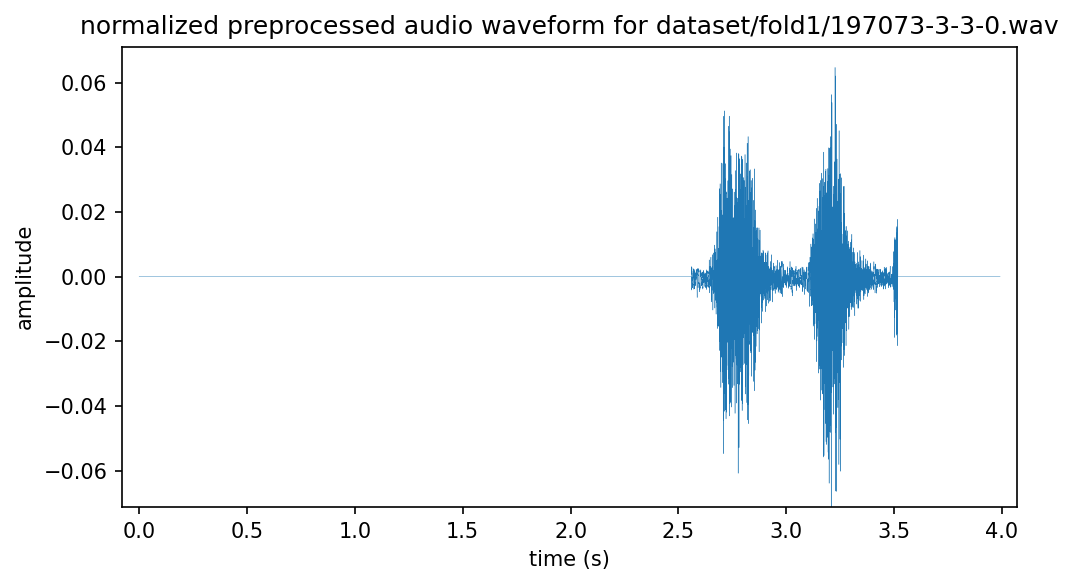
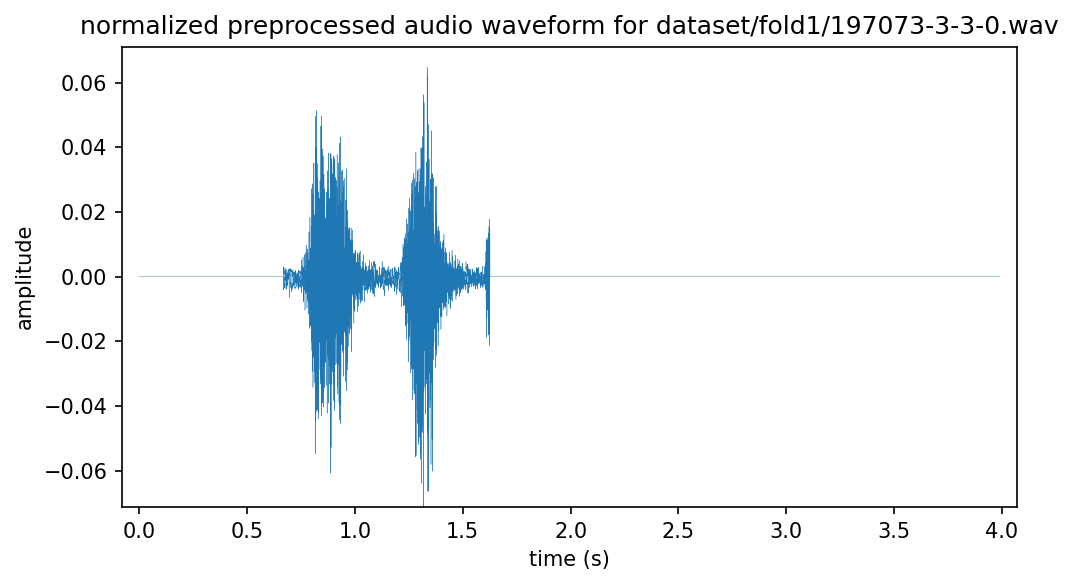
mapping class id

Changed region(s): [[0.246, 0.2154, 0.4613, 0.8308], [0.6459, 0.1846, 0.8611, 0.8308]]

diff --git a/data_visualization.py b/data_visualization.py
@@ -16,7 +16,7 @@ spectrogram_process = SoundDS()
 AudioUtilHandler = AudioUtil()
 data_handler = KaggleDataHandler()
 
-print_output = True
+print_output = False
 
 
 class visualize: 
@@ -171,7 +171,13 @@ class visualize:
 
 
     #get the augmented spectrgram from the preprocessed audio file and plot it as png
-    def audio_mel_spectrogram_png(self, audio_path, class_id):
+    def audio_mel_spectrogram_png(self, audio_path):
+
+        sliced_file_name = Path(audio_path).name
+        class_id = data_handler.get_class_id(sliced_file_name)
+        if print_output:
+            print(f"Class ID for {audio_path} is {class_id}")
+
         augmented_spectrogram, _ = spectrogram_process.__getitem__(audio_path, class_id)
         aug_spec_np = augmented_spectrogram[0].numpy()
 
@@ -181,7 +187,7 @@ class visualize:
 
 
     #get the mel spectrgram from the raw audio file not preprocessed and plot it as png
-    def audio_mel_spectrogram_raw_png(self, audio_path, class_id):
+    def audio_mel_spectrogram_raw_png(self, audio_path):
         mel_spectrogram_transform = MelSpectrogram(
             sample_rate=44100,
             n_fft=2048,
@@ -204,8 +210,8 @@ audio_visualizer = visualize()
 audio_visualizer.audio_waveform_png_preprocessed("dataset/fold1/197073-3-3-0.wav")
 audio_visualizer.audio_waveform_png_raw("dataset/fold1/197073-3-3-0.wav")
 
-audio_visualizer.audio_mel_spectrogram_raw_png("dataset/fold1/197073-3-3-0.wav", 3)
-audio_visualizer.audio_mel_spectrogram_png("dataset/fold1/197073-3-3-0.wav", 3)
+audio_visualizer.audio_mel_spectrogram_raw_png("dataset/fold1/197073-3-3-0.wav")
+audio_visualizer.audio_mel_spectrogram_png("dataset/fold1/197073-3-3-0.wav")
 
 
 

diff --git a/kaggledatahandler.py b/kaggledatahandler.py
@@ -76,7 +76,7 @@ class KaggleDataHandler():
                 file_path = folder_path+'/'+file
                 file_paths.append(file_path)
                 y_value = self.get_class_id_pre_data(fold,file)
-                y_values.append(y_value)                                                                                    m
+                y_values.append(y_value)                                                                                    
                 #print("Wait..")
             datasets_filepath_organized[fold] = file_paths
             y_datasets_filepath_organized[fold] = y_values
